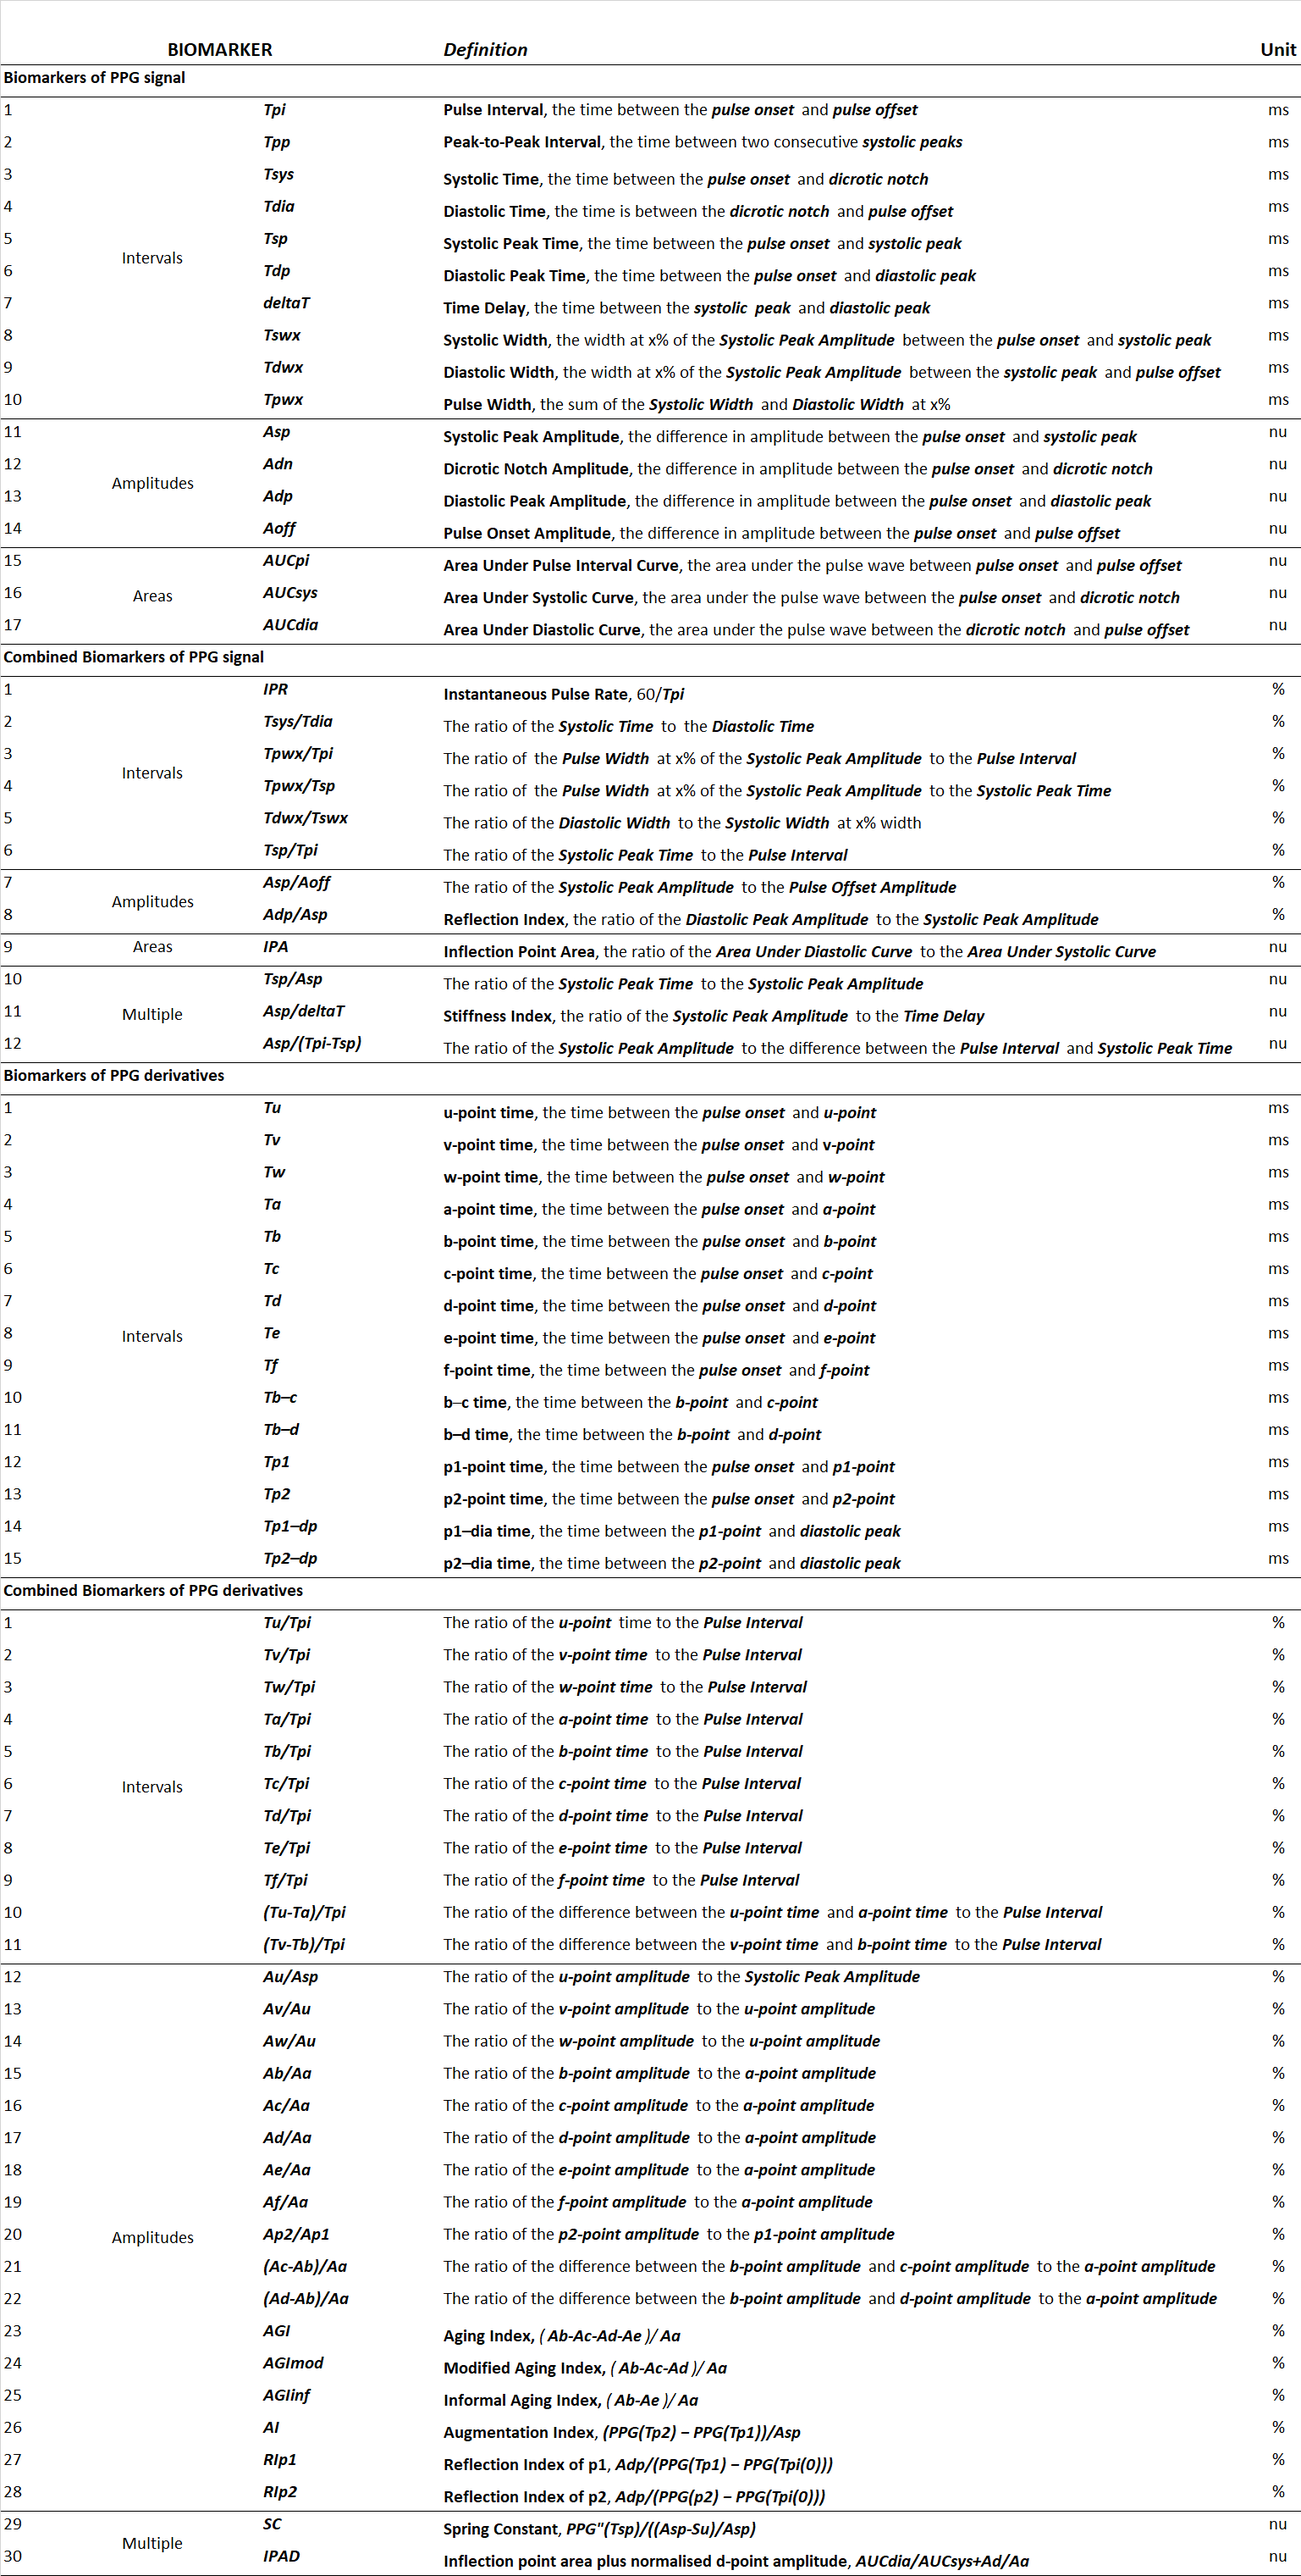
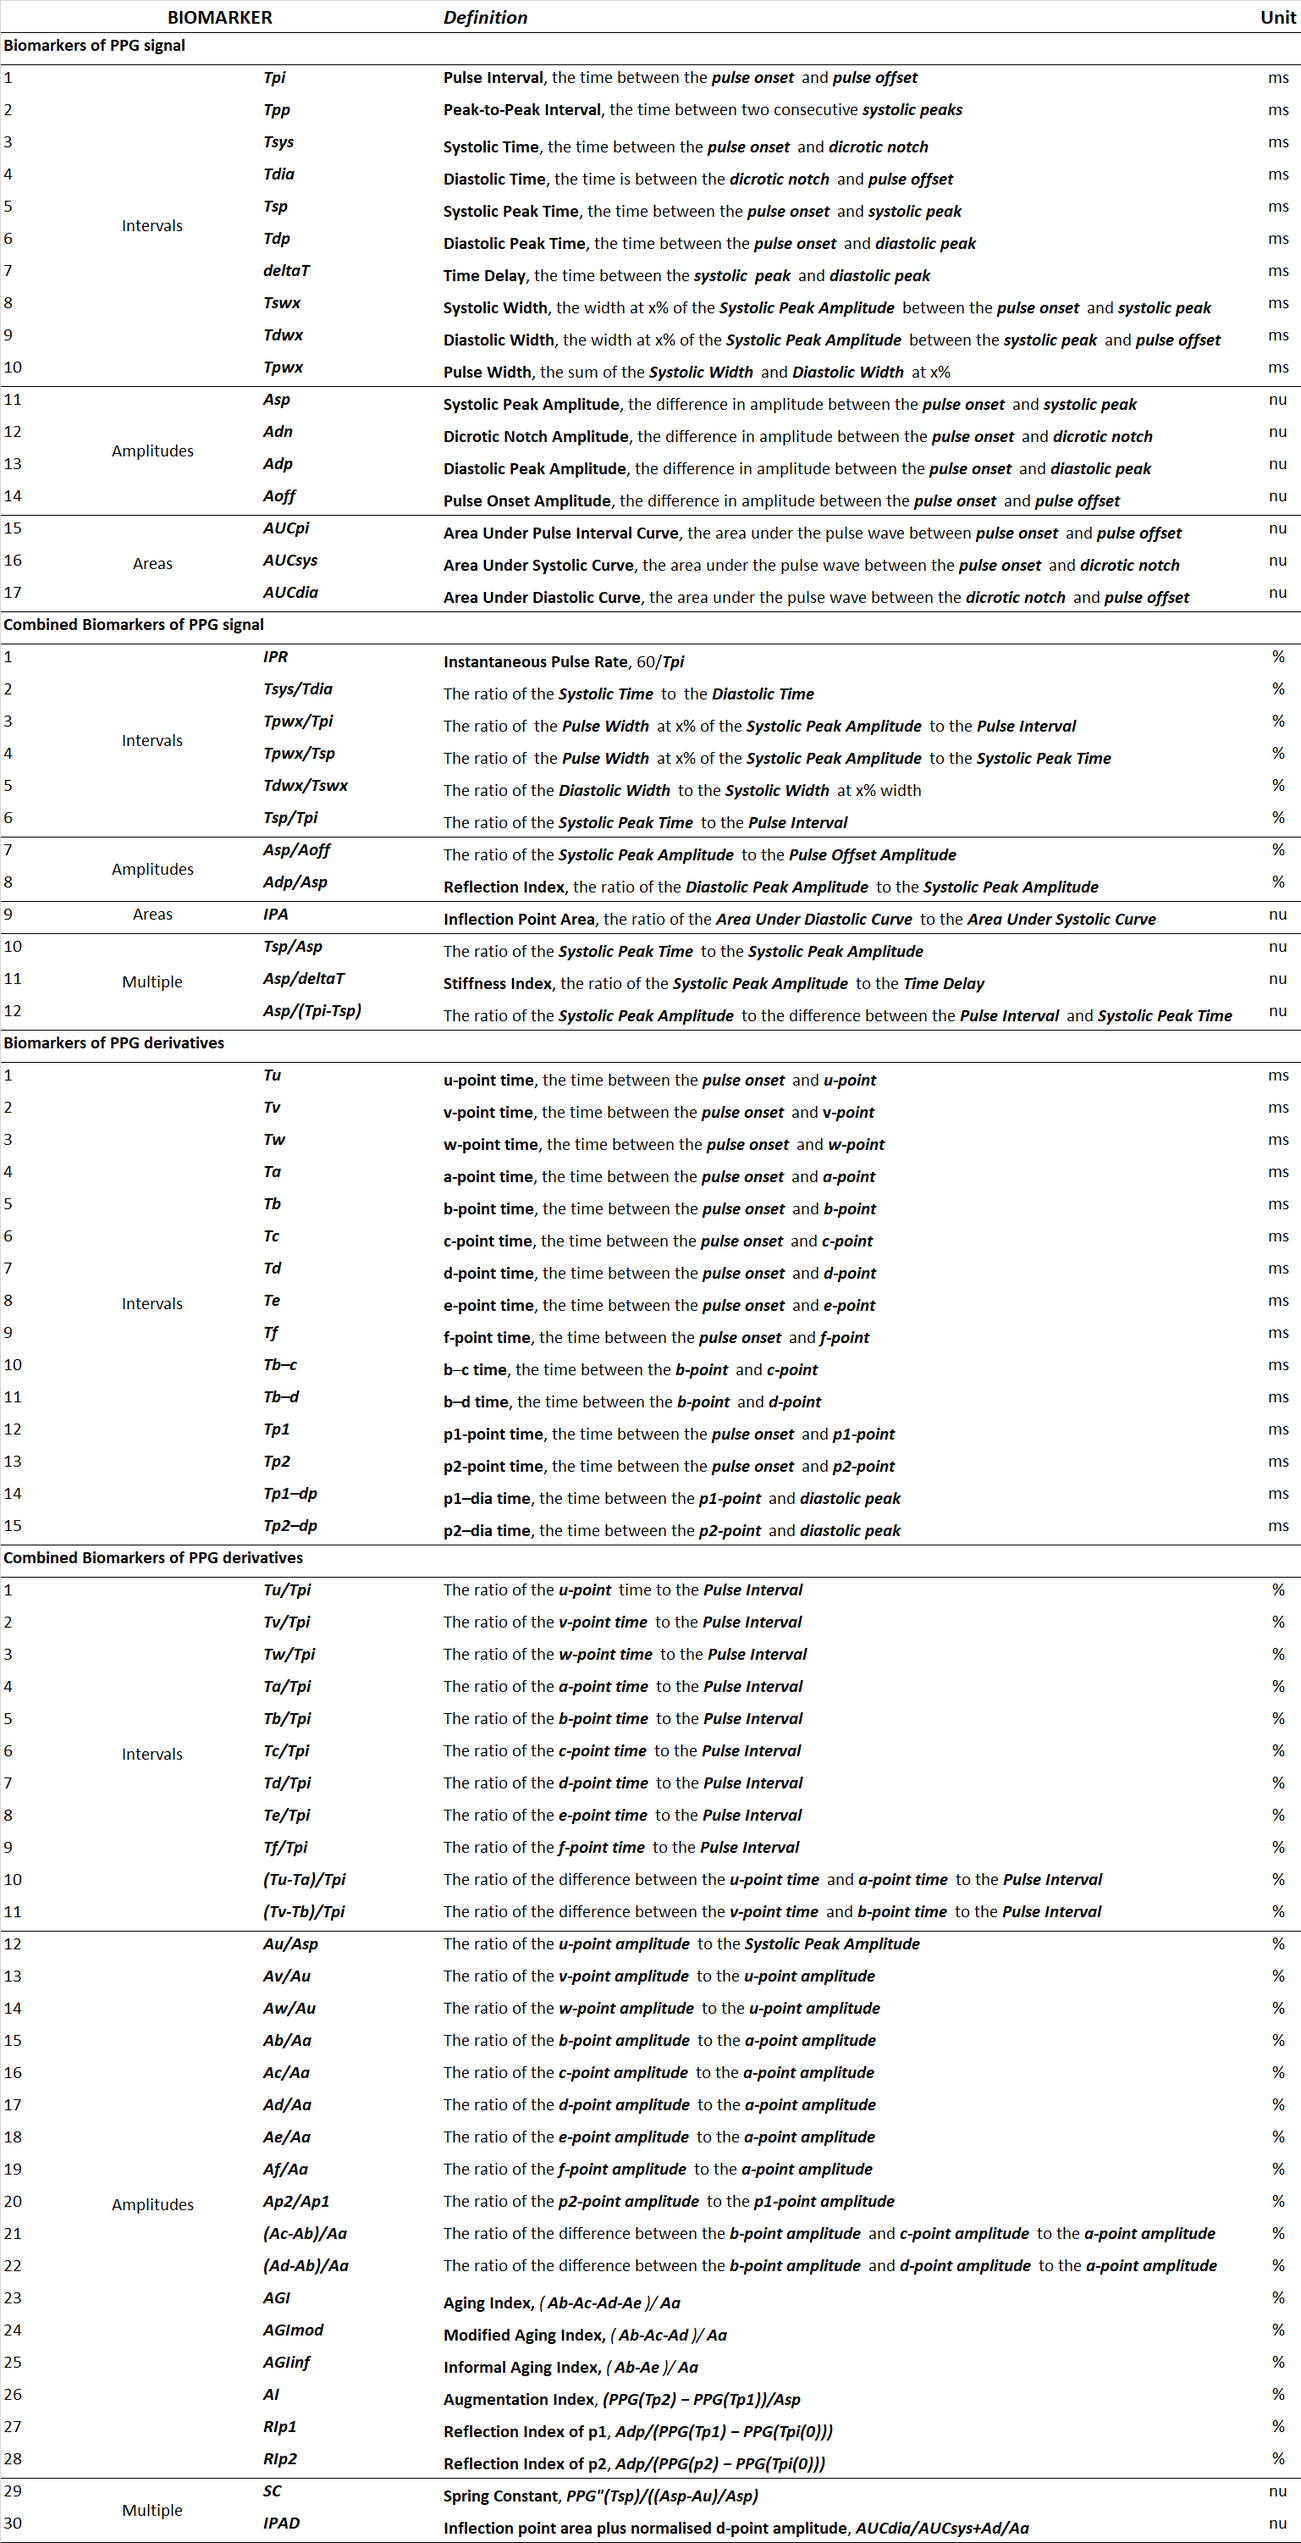
update biomarkers

diff --git a/pyPPG/Biomarkers2.py b/pyPPG/Biomarkers2.py
@@ -176,38 +176,9 @@ def get_BM_RDerivatives(s, fiducials):
                     "AI",           # Augmentation Index, (PPG(Tp2) − PPG(Tp1))/Asp
                     "RIp1",         # Reflection Index of p1, Adp/(PPG(Tp1) − PPG(Tpi(0)))
                     "RIp2",         # Reflection Index of p2, Adp/(PPG(p2) − PPG(Tpi(0)))
-                    "SC",           # Spring Constant, PPG"(Tsp)/((Asp-Su)/Asp)
+                    "SC",           # Spring Constant, PPG"(Tsp)/((Asp-Au)/Asp)
                     "IPAD",         # Inflection point area plus normalised d-point amplitude, AUCdia/AUCsys+Ad/Aa
-                    # "Tu/CP",      # Ratio between Tu and CP
-                    # "Tv/CP",      # Ratio between Tv and CP
-                    # "Tw/CP",      # Ratio between Tw and CP
-                    # "Ta/CP",      # Ratio between Ta and CP
-                    # "Tb/CP",      # Ratio between Tb and CP
-                    # "Tc/CP",      # Ratio between Tc and CP
-                    # "Td/CP",      # Ratio between Td and CP
-                    # "Te/CP",      # Ratio between Te and CP
-                    # "Tf/CP",      # Ratio between Te and CP
-                    # "(Tu-Ta)/CP", # The ratio between the interval maximum/minimum peaks of 1st derivative and CP
-                    # "(Tv-Tb)/CP", # The ratio between the interval
-                    # "AGI_bcdef/a",# Aging index of (b-c-d-e-f)/a
-                    # "AGI_bcde/a", # Aging index of (b-c-d-e)/a
-                    # "AGI_bcd/a",  # Aging index of (b-c-d)/a
-                    # "AGI_be/a",   # Aging index of (b-e)/a, instead of (b-c-d-e)/a, when the c and d waves are missing
-                    # "v/u",  # The ratio v and u of the PPG'
-                    # "w/u",  # The ratio w and u of the PPG'
-                    # "b/a",  # The ratio between b and a of the PPG"
-                    # "c/a",  # The ratio between c and a of the PPG"
-                    # "d/a",  # The ratio between d and a of the PPG"
-                    # "e/a",  # The ratio between e and a of the PPG"
-                    # "f/a",  # The ratio between f and a of the PPG"
-                    # "MS",   # The PPG'(u)/PPG(peak)
-                    # "p2/p1",  # The PPG(p2)/PPG(p1)
-                    # "IPAD", # Inflection point area plus d-peak, (A2/A1) + d/a
-                    # "AI",   # Augmentation index is (PPG(p2) − PPG(p1))/(PPG(systolic peak) − PPG(systolic onset))
-                    # "SC",   # Spring constant defined as PPG"(sys) / ((SPA - MS) / SPA), derived from a physical model of the elasticity of peripheral arteries
-                    # "RIp1", # Reflection index using p1,(PPG(diastolic peak) − PPG(systolic onset))/(PPG(p1) − PPG(systolic onset))
-                    # "RIp2", # Reflection index using p2,(PPG(diastolic peak) − PPG(systolic onset))/(PPG(p2) − PPG(systolic onset))
-                    ]
+                     ]
 
     df, df_features = get_features(s, fiducials, features_lst)
 
@@ -372,35 +343,6 @@ class features_extract_PPG:
                     "RIp2": self.getRIp2(),
                     "SC": self.getSC(),
                     "IPAD": self.getIPAD(),
-                    # "Tu/CP": self.get_ratio_Tu_Tpi(),
-                    # "Tv/CP": self.get_ratio_Tv_Tpi(),
-                    # "Tw/CP": self.get_ratio_Tw_Tpi(),
-                    # "Ta/CP": self.get_ratio_Ta_Tpi(),
-                    # "Tb/CP": self.get_ratio_Tb_Tpi(),
-                    # "Tc/CP": self.get_ratio_Tc_Tpi(),
-                    # "Td/CP": self.get_ratio_Td_Tpi(),
-                    # "Te/CP": self.get_ratio_Te_Tpi(),
-                    # "Tf/CP": self.get_ratio_Tf_Tpi(),
-                    # "(Tu-Ta)/CP": self.get_ratio_TuTa_Tpi(),
-                    # "(Tv-Tb)/CP": self.get_ratio_TvTb_Tpi(),
-                    # "AGI_bcdef/a": self.get_aging_index0(),
-                    # "AGI_bcde/a": self.getAGI(),
-                    # "AGI_bcd/a": self.getAGImod(),
-                    # "AGI_be/a": self.getAGIinf(),
-                    # "v/u": self.get_ratio_Av_Au(),
-                    # "w/u": self.get_ratio_Aw_Au(),
-                    # "b/a": self.get_ratio_Ab_Aa(),
-                    # "c/a": self.get_ratio_Ac_Aa(),
-                    # "d/a": self.get_ratio_Ad_Aa(),
-                    # "e/a": self.get_ratio_Ae_Aa(),
-                    # "f/a": self.get_ratio_Af_Aa(),
-                    # "IPAD": self.getIPAD(),
-                    # "MS": self.getMS(),
-                    # "AI": self.getAI(),
-                    # "SC": self.getSC(),
-                    # "p2/p1": self.get_ratio_Ap2_Ap1(),
-                    # "RIp1": self.getRIp1(),
-                    # "RIp2": self.getRIp2(),
         }
         return my_funcs
 
@@ -1248,7 +1190,7 @@ class features_extract_PPG:
 
     def getSC(self):
         """ The function calculates the Spring Constant,
-            PPG"(Tsp)/((Asp-Su)/Asp).
+            PPG"(Tsp)/((Asp-Au)/Asp).
             :return SC feature:
         """
         ddxSPA=self.segment_d2[(self.getTsp()*self.sample_rate).astype(int)]
